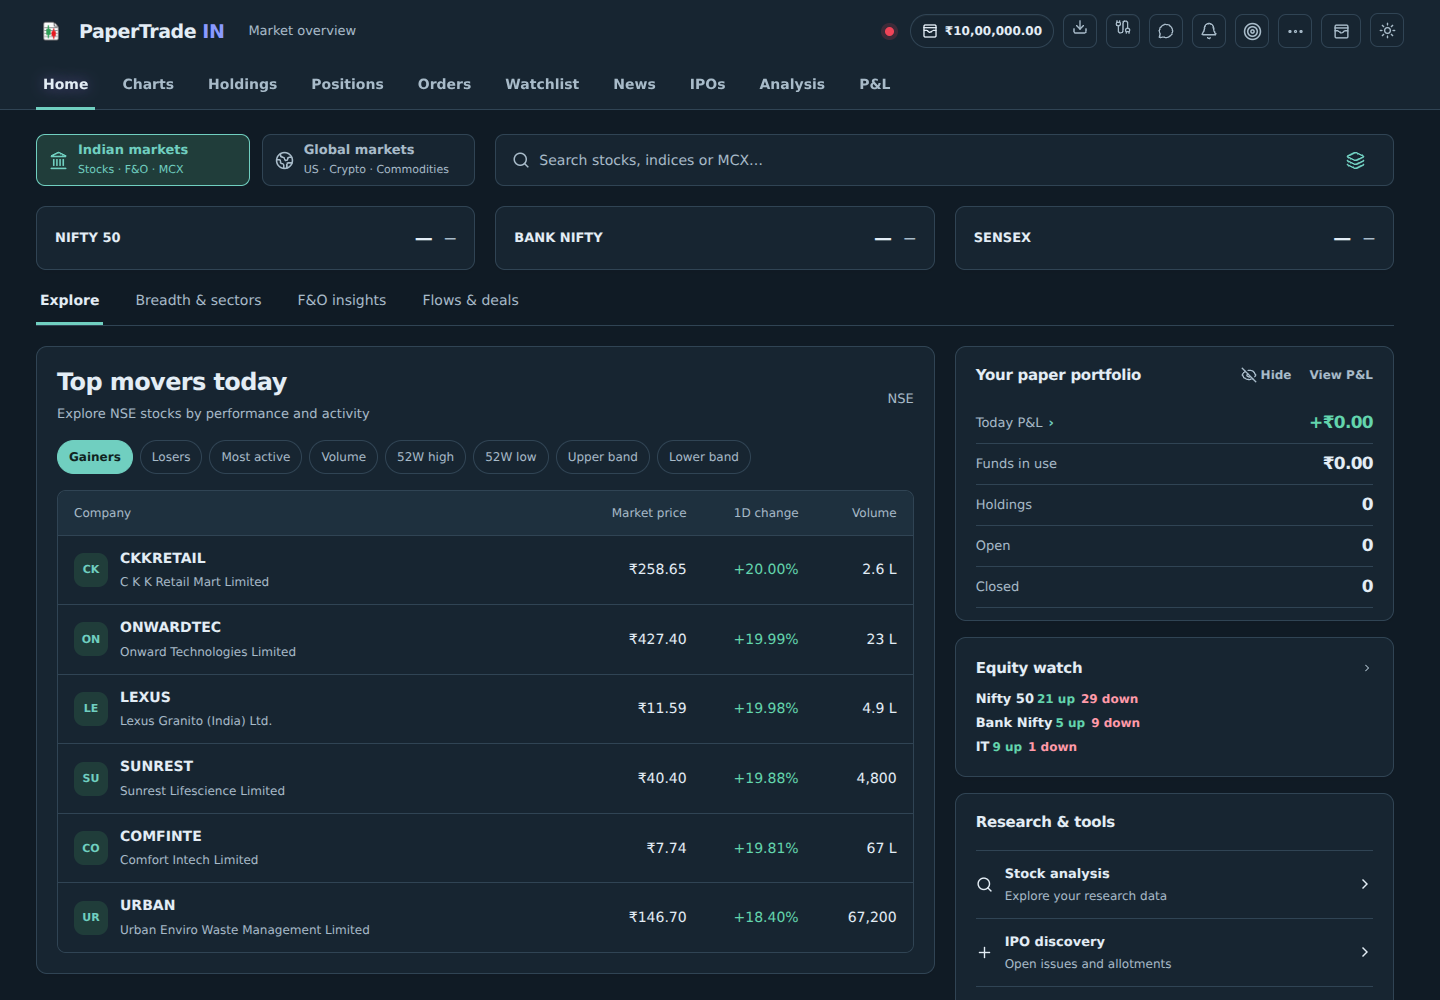
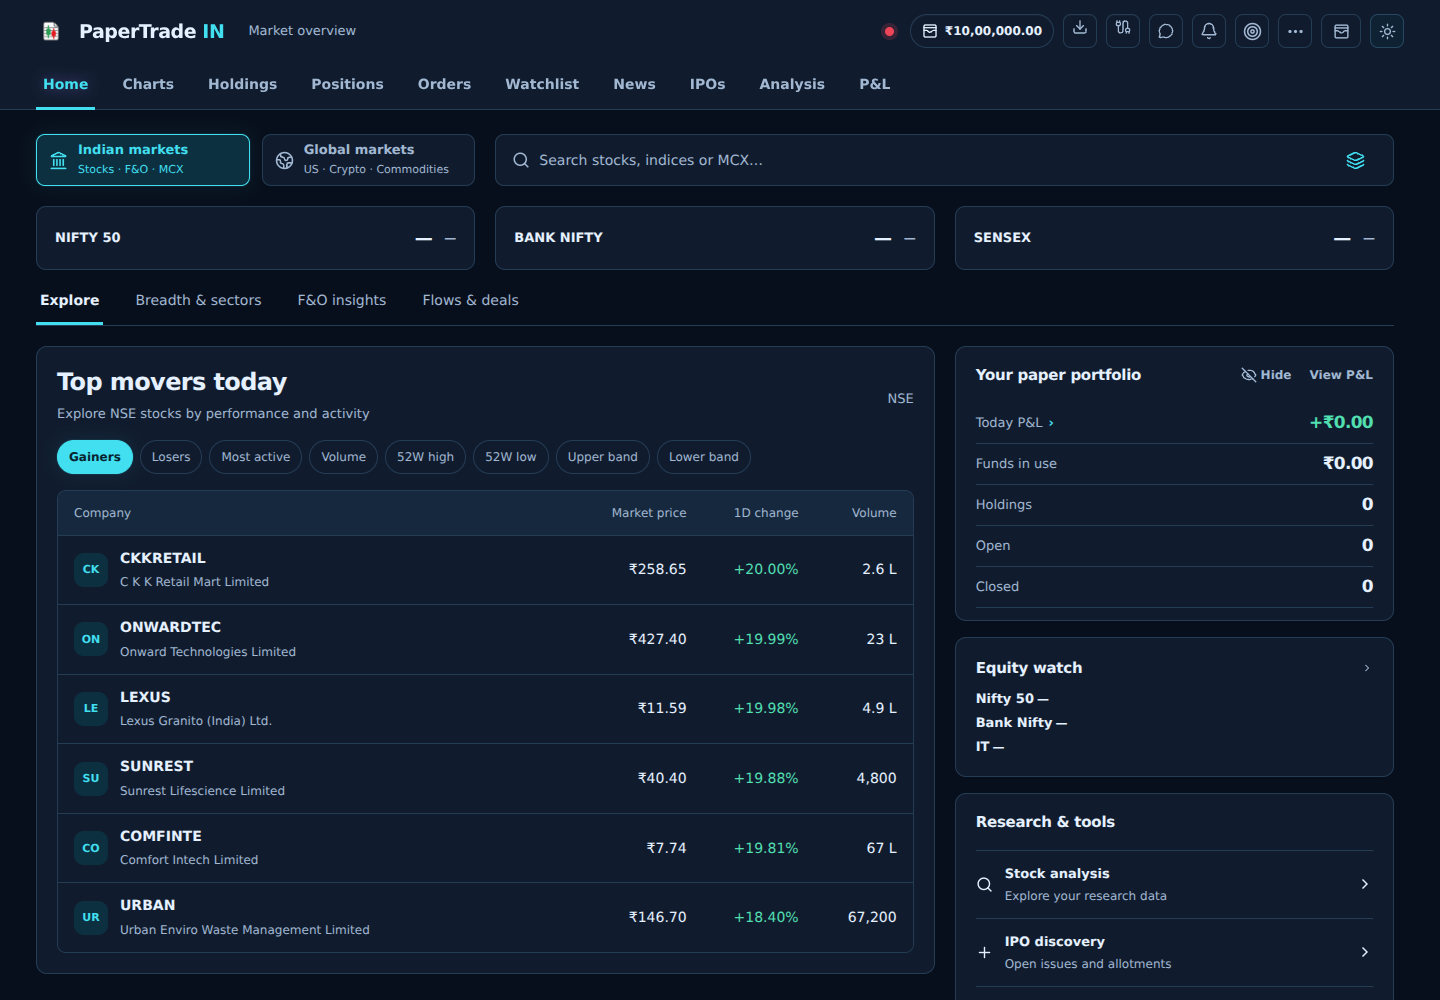
Add vibrant cobalt light and electric cyan neon desktop themes

diff --git a/app/desktop-tabbed-workspace.css b/app/desktop-tabbed-workspace.css
@@ -123,28 +123,37 @@
   /* 12UI candidate C. Home is the review surface before expanding the system.
      Keep app data and vector controls authoritative; no generated financial data. */
   .terminal-shell[data-platform="web"][data-section="home"] {
-    --desktop-home-canvas: #f6f8f9; --desktop-home-shadow: #263b4d04;
-    --desktop-home-on-accent: #fff; --desktop-home-gain: #00805f; --desktop-home-loss: #c3344b;
-    --surface: #fff; --soft: #f0f4f6; --line: #e0e7ec; --ink: #293f53;
-    --muted: #5d7285; --purple: #007c70; --purple-soft: #e6f4f0;
+    /* Vibrant light: cobalt controls, bright surfaces, blue-tinted canvas. */
+    --desktop-home-canvas: #f1f5ff; --desktop-home-shadow: #3154d50a;
+    --desktop-home-on-accent: #fff; --desktop-home-gain: #007e5b; --desktop-home-loss: #be3150;
+    --desktop-home-active-shadow: 0 3px 12px #3154d51a;
+    --desktop-home-hover-shadow: 0 4px 16px #3154d512;
+    --desktop-home-accent-line: #b6c6ff;
+    --surface: #fff; --soft: #edf2ff; --line: #dce4f4; --ink: #1d2c4a;
+    --muted: #596c88; --purple: #3154d5; --purple-soft: #e7edff;
     --studio-panel: var(--surface); --studio-raised: var(--soft);
+    --studio-border: var(--line); --studio-highlight: var(--purple-soft);
   }
   .terminal-shell[data-platform="web"][data-section="home"][data-theme="neon"] {
-    --desktop-home-canvas: #101b25; --desktop-home-shadow: #0000000c;
-    --desktop-home-on-accent: #10231f; --desktop-home-gain: #63d5ad; --desktop-home-loss: #ff9aa9;
-    --surface: #172531; --soft: #1e303e; --line: #304454; --ink: #e3edf5;
-    --muted: #a8bbc9; --purple: #70cfc0; --purple-soft: #203d3a;
+    /* Modern neon: colour marks interaction; financial text stays unglowed. */
+    --desktop-home-canvas: #080f1c; --desktop-home-shadow: #00071224;
+    --desktop-home-on-accent: #06232f; --desktop-home-gain: #51dfb0; --desktop-home-loss: #ff8da5;
+    --desktop-home-active-shadow: 0 0 0 1px #34dcef12, 0 0 18px #34dcef14;
+    --desktop-home-hover-shadow: 0 0 16px #34dcef12;
+    --desktop-home-accent-line: #28667d;
+    --surface: #101c2e; --soft: #15283d; --line: #253c55; --ink: #e6f1ff;
+    --muted: #a2b8d2; --purple: #41dfef; --purple-soft: #0c3040;
   }
   .terminal-shell[data-platform="web"][data-section="home"] :is(.topbar,.home-hub) { color: var(--ink); }
   .terminal-shell[data-platform="web"][data-section="home"] .topbar { padding-inline: 36px; background: var(--surface); }
   .terminal-shell[data-platform="web"][data-section="home"] .main-nav { gap: 20px; }
   .terminal-shell[data-platform="web"][data-section="home"] .main-nav button { padding-inline: 7px; font-size: 14px; font-weight: 600; }
-  .terminal-shell[data-platform="web"][data-section="home"] .main-nav .nav-active { color: var(--ink); border-bottom-color: var(--purple); }
+  .terminal-shell[data-platform="web"][data-section="home"] .main-nav .nav-active { color: var(--purple); border-bottom-color: var(--purple); }
   .terminal-shell[data-platform="web"][data-section="home"] .top-actions :is(.icon-button,.suggestion-button,.download-button,.api-button) { width: 34px; min-width: 34px; height: 34px; min-height: 34px; color: var(--muted); background: var(--surface); border: 1px solid var(--line); }
   .terminal-shell[data-platform="web"][data-section="home"] .top-actions .funds-button { min-height: 34px; font-size: 12px; color: var(--ink); }
   .terminal-shell[data-platform="web"][data-section="home"] .desktop-workspace-title { color: var(--muted); font-size: 13px; }
   .terminal-shell[data-platform="web"] .home-hub.home-studio .home-market-chooser > button { padding: 8px 12px; gap: 10px; border-radius: 9px; background: var(--surface); color: var(--muted); }
-  .terminal-shell[data-platform="web"] .home-hub.home-studio .home-market-chooser > button.active { color: var(--purple); background: var(--purple-soft); border-color: var(--purple); }
+  .terminal-shell[data-platform="web"] .home-hub.home-studio .home-market-chooser > button.active { color: var(--purple); background: var(--purple-soft); border-color: var(--purple); box-shadow: var(--desktop-home-active-shadow); }
   .terminal-shell[data-platform="web"] .home-hub.home-studio .home-market-chooser > button small { color: inherit; opacity: 1; }
   .terminal-shell[data-platform="web"] .home-hub.home-studio .home-global-search > svg { color: var(--muted); }
   .terminal-shell[data-platform="web"] .home-hub.home-studio .home-global-search input::placeholder { color: var(--muted); opacity: 1; }
@@ -160,8 +169,12 @@
   .terminal-shell[data-platform="web"] .home-hub.home-studio .home-breadth-counts > .up { color: var(--desktop-home-gain); }
   .terminal-shell[data-platform="web"] .home-hub.home-studio .home-breadth-counts > .down { color: var(--desktop-home-loss); }
   .terminal-shell[data-platform="web"][data-section="home"] :is(button,input):focus-visible { outline: 2px solid var(--purple); outline-offset: 3px; }
-  .terminal-shell[data-platform="web"] .home-hub.home-studio :is(.home-index-card,.desktop-home-tools button,.home-market-card-v2):hover { border-color: var(--muted); background: var(--soft); }
+  .terminal-shell[data-platform="web"] .home-hub.home-studio :is(.home-index-card,.desktop-home-tools button,.home-market-card-v2):hover { border-color: var(--desktop-home-accent-line); background: var(--soft); box-shadow: var(--desktop-home-hover-shadow); }
   .terminal-shell[data-platform="web"] .desktop-mover-tabs button:hover:not([aria-selected="true"]) { background: var(--soft); color: var(--ink); border-color: var(--muted); }
+  .terminal-shell[data-platform="web"][data-section="home"] .topbar > .brand b { color: var(--purple); }
+  .terminal-shell[data-platform="web"][data-section="home"] .top-actions :is(.icon-button,.suggestion-button,.download-button,.api-button):hover { color: var(--purple); border-color: var(--desktop-home-accent-line); background: var(--purple-soft); }
+  .terminal-shell[data-platform="web"] .home-hub.home-studio .desktop-mover-tabs button[aria-selected="true"] { box-shadow: var(--desktop-home-active-shadow); }
+  .terminal-shell[data-platform="web"] .home-hub.home-studio .home-global-search:focus-within { border-color: var(--purple); box-shadow: var(--desktop-home-active-shadow); }
 
   /* List/report screens each own their single main scroll region. */
   .terminal-shell[data-platform="web"] :is(.news-workspace,.ipo-discovery-panel,.navigation-page-backdrop) { overflow-y: auto; padding: 24px 28px; background: var(--surface); }

diff --git a/docs/desktop-redesign-brief.md b/docs/desktop-redesign-brief.md
@@ -125,6 +125,44 @@ and are not loaded by the application.
 The full multi-screen rollout, merge and deployment remain pending review of
 this representative screen.
 
+## Theme revision — modern neon / modern vibrant
+
+Following review, the existing layout now has two distinct colour systems:
+
+| Token | Vibrant light | Modern neon dark |
+| --- | --- | --- |
+| Canvas | `#f1f5ff` | `#080f1c` |
+| Card surface | `#ffffff` | `#101c2e` |
+| Product accent | `#3154d5` cobalt | `#41dfef` electric cyan |
+| Primary text | `#1d2c4a` | `#e6f1ff` |
+| Secondary text | `#596c88` | `#a2b8d2` |
+| Gain text | `#007e5b` | `#51dfb0` |
+| Loss text | `#be3150` | `#ff8da5` |
+
+Neon glow is confined to selected controls and interaction states. Financial
+figures have no text glow. Light mode uses crisp white surfaces, cool blue
+backgrounds, and cobalt selected states. The existing `light`/`neon` preference
+values, layout, controls, and live data integration remain unchanged. This is a
+palette revision of the already selected 12UI layout; no new image generation
+or conversion was purchased, and the earlier alignment report refers to that
+layout rather than certifying these new colours.
+
+The refreshed preview images use the same browser-only public-row replay.
+Production build passed. Theme switching/persistence, privacy controls,
+keyboard section navigation, and 1024/1280/1440/1920 px layouts passed with no
+browser JavaScript errors. Existing mobile components remain intact at 390 px.
+The checked colour pairs exceed 4.5:1 in both themes:
+
+| Checked pair | Light contrast | Dark contrast |
+| --- | --- | --- |
+| Primary text / surface | 13.89:1 | 14.98:1 |
+| Secondary text / surface | 5.35:1 | 8.41:1 |
+| Selected control label / fill | 6.25:1 | 10.10:1 |
+| Gain text / surface | 5.08:1 | 10.21:1 |
+| Loss text / surface | 5.61:1 | 7.82:1 |
+
+These are selected colour-pair checks, not a full accessibility certification.
+
 ## 12UI spend ledger
 
 Stage ceilings are not confirmed charges. The 12UI kit records:
